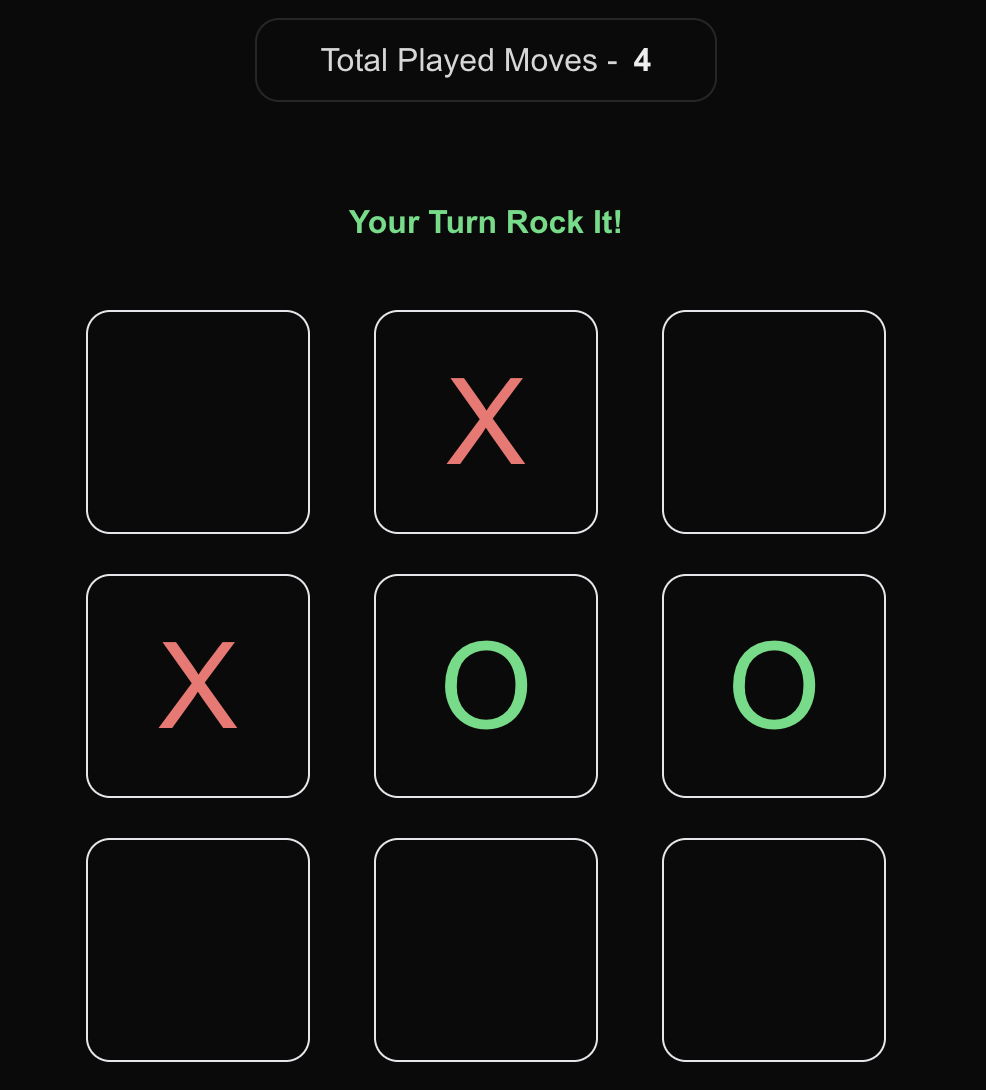
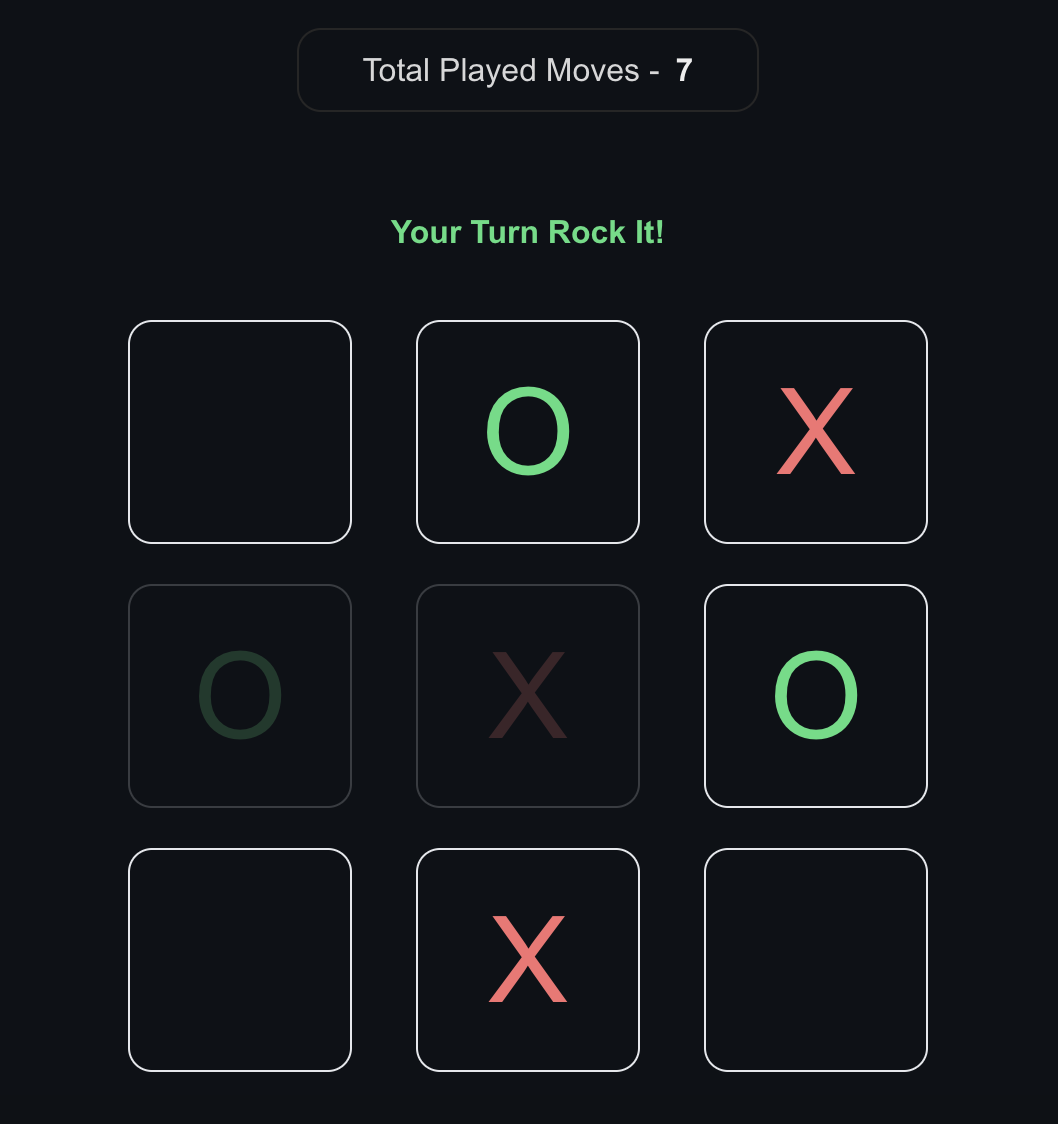
ui fixes

diff --git a/src/app/page.tsx b/src/app/page.tsx
@@ -1,5 +1,4 @@
 /* eslint-disable react/no-unescaped-entities */
-
 import Counter from '@/components/Counting';
 import { Users, Gamepad2, Zap, Rss } from 'lucide-react';
 import Image from 'next/image';
@@ -13,7 +12,7 @@ export default async function Home() {
       <div className="container mx-auto px-4 pb-32 pt-12 lg:pt-20">
         <div className="flex flex-col items-center space-y-8 text-center">
           <div className="relative">
-            <h1 className="bg-gradient-to-r from-indigo-500 to-teal-400 bg-clip-text text-[52px] font-bold text-transparent lg:text-6xl">
+            <h1 className="bg-gradient-to-r from-indigo-500 to-teal-400 bg-clip-text text-[52px] font-bold text-transparent shadow-lg lg:text-6xl">
               Real-time Tic-Tac-Toe
             </h1>
           </div>
@@ -25,13 +24,13 @@ export default async function Home() {
           <div className="flex gap-4 pt-4">
             <Link
               href={`/dashboard`}
-              className="rounded-md bg-gradient-to-r from-indigo-700 to-teal-700 px-8 py-1.5 text-lg lg:px-8"
+              className="rounded-md bg-gradient-to-r from-indigo-700 to-teal-700 px-8 py-1.5 text-lg shadow-sm lg:px-8"
             >
               Play Now
             </Link>
             <Link
               href="#info"
-              className="rounded-md border border-neutral-500 px-6 py-1.5 text-lg hover:cursor-pointer"
+              className="rounded-md border border-neutral-500 px-6 py-1.5 text-lg shadow-sm hover:cursor-pointer"
             >
               Learn Rules
             </Link>
@@ -86,7 +85,7 @@ export default async function Home() {
         <div className="absolute inset-0 -z-10 h-full w-full bg-[linear-gradient(to_right,#8080800a_1px,transparent_1px),linear-gradient(to_bottom,#8080800a_1px,transparent_1px)] bg-[size:14px_24px]"></div>
 
         <div className="container mx-auto px-4">
-          <h2 className="mb-8 text-center text-3xl font-bold lg:mb-16 lg:text-4xl">
+          <h2 className="mb-8 text-center text-3xl font-bold shadow-sm lg:mb-16 lg:text-4xl">
             Technologies Used
           </h2>
           <div className="grid grid-cols-1 md:grid-cols-2 lg:grid-cols-3 lg:gap-8">
@@ -140,7 +139,7 @@ export default async function Home() {
             </Link>
           </div>
 
-          <div className="relative flex min-h-[420px] min-w-[330px] rounded-md border border-neutral-900 lg:min-h-[450px] lg:min-w-[420px]">
+          <div className="relative flex min-h-[420px] min-w-[330px] rounded-md border border-neutral-800 shadow-2xl lg:min-h-[450px] lg:min-w-[420px]">
             <div className="rounded-xl p-8 shadow-2xl">
               <div className="grid h-full grid-cols-3 gap-4">
                 <Image fill src={`/game.png`} alt="image" />

diff --git a/src/app/dashboard/page.tsx b/src/app/dashboard/page.tsx
@@ -22,18 +22,31 @@ export default function Page() {
     if (roomId === '') {
       toast.error("Room-ID can't be empty");
       joinRoomRef.current?.focus();
-      setIsJoinBoolean(false);
+      new Promise(() => {
+        setTimeout(() => {
+          setIsJoinBoolean(false);
+        }, 800);
+      });
+      return;
       return;
     }
     if (roomId.length <= 3) {
       toast.error("Room-ID can't be less than 4-digits");
       joinRoomRef.current?.focus();
-      setIsJoinBoolean(false);
+      new Promise(() => {
+        setTimeout(() => {
+          setIsJoinBoolean(false);
+        }, 800)
+      })
       return;
     }
     if (socket && !loading) {
       joinRoom(roomId);
-      setIsJoinBoolean(false);
+      new Promise(() => {
+        setTimeout(() => {
+          setIsJoinBoolean(false);
+        }, 800);
+      });
     }
   };
 

diff --git a/src/app/providers.tsx b/src/app/providers.tsx
@@ -6,17 +6,15 @@ import { Toaster } from 'react-hot-toast';
 export default function Provider({ children }: { children: React.ReactNode }) {
   const pathname = usePathname();
   const shouldUseSocket = pathname !== '/' && pathname !== '/offline';
-  return (
-      shouldUseSocket ? (
-        <SocketProvider>
-          <Toaster position="top-center" reverseOrder={false} />
-          {children}
-        </SocketProvider>
-      ) : (
-        <>
-          <Toaster position="top-center" reverseOrder={false} />
-          {children}
-        </>
-      )
+  return shouldUseSocket ? (
+    <SocketProvider>
+      <Toaster position="top-center" reverseOrder={false} />
+      {children}
+    </SocketProvider>
+  ) : (
+    <>
+      <Toaster position="top-center" reverseOrder={false} />
+      {children}
+    </>
   );
 }

diff --git a/src/app/layout.tsx b/src/app/layout.tsx
@@ -27,10 +27,10 @@ export default function RootLayout({
 }>) {
   return (
     <html lang="en">
-      <body className={`${geistSans.variable} ${geistMono.variable} scrollbar-w-2 scrollbar-track-blue-lighter scrollbar-thumb-blue scrollbar-thumb-rounded antialiased`}>
-        <Provider>
-          {children}
-        </Provider>
+      <body
+        className={`${geistSans.variable} ${geistMono.variable} scrollbar-w-2 scrollbar-track-blue-lighter scrollbar-thumb-blue scrollbar-thumb-rounded bg-[#0d1116] antialiased`}
+      >
+        <Provider>{children}</Provider>
       </body>
     </html>
   );

diff --git a/src/components/Game.tsx b/src/components/Game.tsx
@@ -118,7 +118,7 @@ export default function Game({
             </span>
           )}
         </div>
-        <div className="flex flex-col space-y-3 lg:mt-8 lg:space-y-5">
+        <div className="flex flex-col mt-10 space-y-3 lg:mt-8 lg:space-y-5">
           <div className="flex flex-row items-center justify-center space-x-5 lg:space-x-8">
             {[0, 1, 2].map((index) => (
               <Block

diff --git a/README.md b/README.md
@@ -1,24 +1,47 @@
-link: https://tictactoe.ashishtiwari.net
+# 🎮 Advanced Tic-Tac-Toe ✨
 
+Welcome to **Advanced Tic-Tac-Toe**, the ultimate twist on the classic game we all know and love! Challenge your friends or play against yourself in this dynamic, real-time experience. 🕹
 
-🎮 Advanced Tic-Tac-Toe ✨
+[**Play Now**](https://tictactoe.ashishtiwari.net)
 
-Welcome to the Advanced Tic-Tac-Toe game, a twist on the classic! 🕹
+---
 
-🔍 Game Rules:
+## 🔍 **Game Rules:**
 
-Players: 2 (Player X and Player O) 🤺  
-Gameplay: Players take turns marking a spot on the 3x3 grid.
-Special Rule: After the 4th move, the first move made by either player is erased. 🎲.   
-Winning: The first player to get 3 marks in a row (horizontally, vertically, or diagonally) wins! 🏆
+- **Players**: 2 (Player X and Player O) 🤺
+- **Gameplay**: Players alternate turns, marking a spot on the 3x3 grid. ✏
+- **Special Rule**: After the 4th move, the first move made by either player is erased, adding an extra layer of strategy. 🎲
+- **Winning**: The first player to align 3 marks in a row—horizontally, vertically, or diagonally—wins the game! 🏆
 
-⚙ How it Works:  
-The game keeps track of each player's moves in a circular queue (a fancy way of storing moves! 😉).
-Once the 4th move is made, the first move gets removed automatically. 🧹
-The game checks for a winner after every move.
-If there is a winner, the game announces the winner and resets. 🔄
+---
 
-💻 Features:  
-Stylish 3x3 grid where players place their X or O. ✨
-Interactive UI with smooth animations. Visual feedback on moves made by each player (opacity effect). 👀
-The game resets after a win or a draw, ready for another round! 🔁
+## ⚙ **How It Works:**
+
+- The game stores each player's moves in a **circular queue**—a clever way of tracking game actions. ⏳
+- Once the 4th move is made, the **first move** is automatically removed, making the game more unpredictable and exciting! 🧹
+- After every move, the game checks for a winner, and if there is one, it announces the winner and resets the board. 🔄
+
+---
+
+## 💻 **Features:**
+
+- **Stylish 3x3 Grid**: A sleek, visually appealing design where players place their X's and O's. ✨
+- **Interactive UI**: Smooth animations and visual feedback on each move (check out the **opacity effect** for each player’s move). 👀
+- **Automatic Reset**: After a win or a draw, the game resets, so you can jump into the next round! 🔁
+- **Built with Next.js**: A modern framework ensuring fast, smooth performance for an exceptional user experience. 🚀
+
+---
+
+## 📱 **Why Play?**
+
+- **Challenging Strategy**: The game introduces an extra layer of strategy with the special rule of erasing the first move after the 4th move.
+- **Real-Time**: Play instantly with no waiting time. Fast, fun, and interactive! ⚡
+- **Accessible Anytime**: Play on desktop or mobile—this game is optimized for all devices! 🌍
+
+---
+
+So, what are you waiting for? Jump into the world of **Advanced Tic-Tac-Toe**, show off your skills, and become the Tic-Tac-Toe champion! 🏅
+
+---
+
+Feel free to share this link with friends: [https://tictactoe.ashishtiwari.net](https://tictactoe.ashishtiwari.net)
